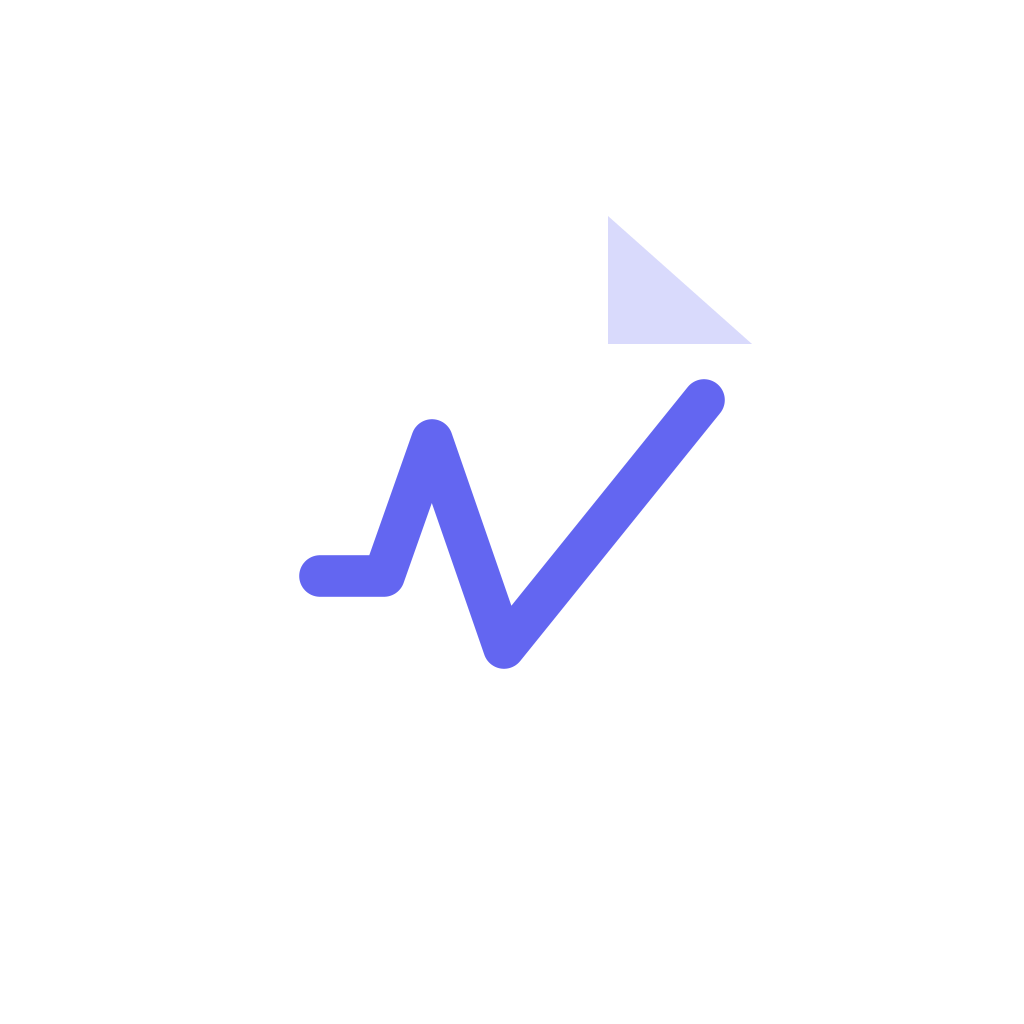
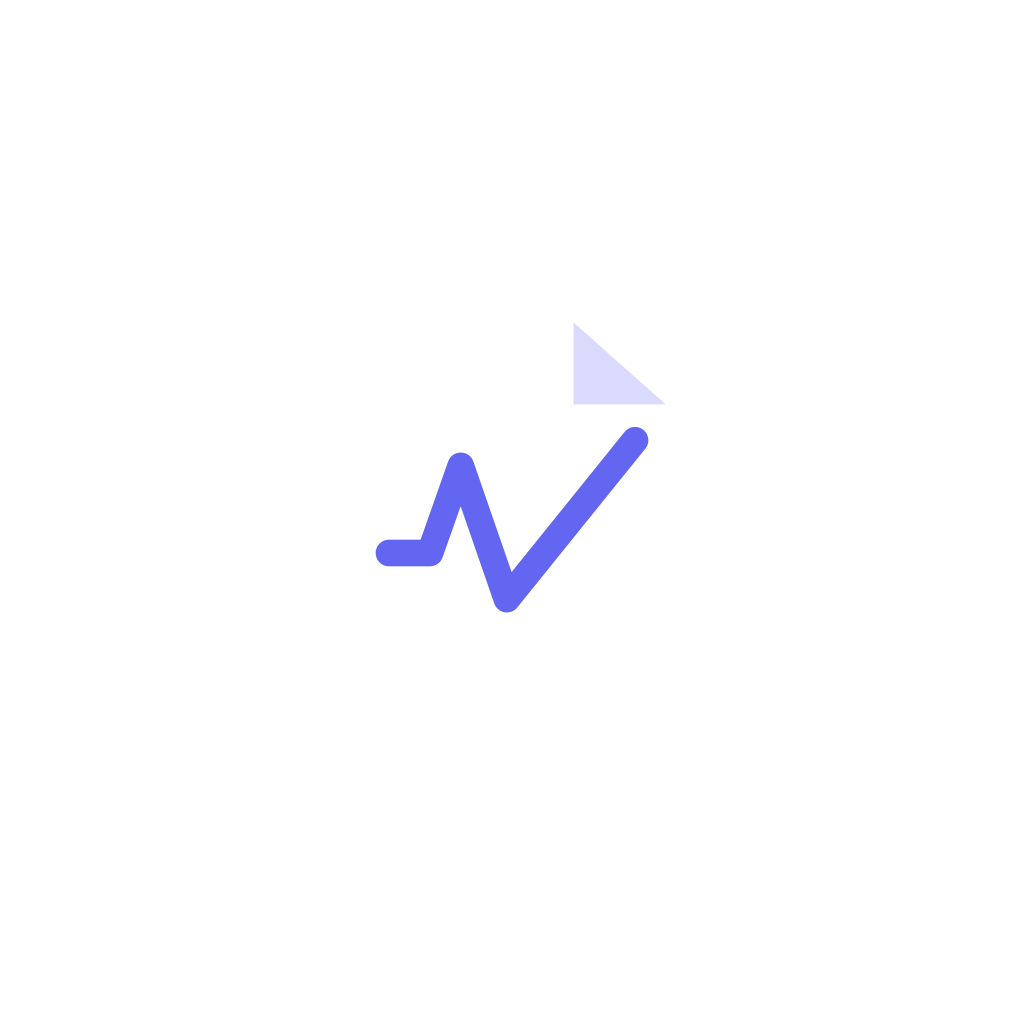
feat(branding): ícono de Android con tema y nombre "Logday"
- La capa monocroma era solo la silueta del documento: con íconos
  temáticos (Android 13+) se veía un documento en blanco. Ahora lleva la
  línea de tendencia y el doblez calados.
- El documento del ícono adaptativo ocupaba el 87 % del alto visible y
  las máscaras redondas lo cortaban. Ahora mide 40 de 108 unidades,
  dentro del círculo seguro.
- Las capas salen de los trazos de LogoMark; los SVG fuente quedan en
  assets/icon-src/.
- El nombre bajo el ícono pasa a "Logday" (decisión de Jorge): "Logday
  Mobile" se cortaba en el lanzador.

Changed region(s): [[0.2812, 0.2188, 0.75, 0.6562]]

diff --git a/specs/builds-nativos/requirements.md b/specs/builds-nativos/requirements.md
@@ -24,11 +24,14 @@ Hasta la 1.0, Logday Mobile solo se probó en Expo Go. Para publicar en las tien
   - Android: Play App Signing, con la llave de subida gestionada por EAS.
   - iOS: certificados gestionados por EAS.
 
+- El nombre bajo el ícono DEBERÁ ser "Logday" (decidido por Jorge el 12 nov 2026; "Logday Mobile" se cortaba en el lanzador). El nombre de la ficha de la tienda es aparte.
+- En Android 13 o superior, con los íconos temáticos activados, el ícono DEBERÁ tomar los colores del tema del sistema como el resto de apps, y seguir mostrando el documento con su doblez y la línea de tendencia.
+- El ícono de Android DEBERÁ caber en la zona segura del ícono adaptativo, para que ninguna máscara del lanzador (círculo, squircle, cuadrado) le corte el documento.
+
 ## PENDIENTE DE DECISIÓN
 
 - **HTTP sin cifrar.** En un build real, Android 9 o superior bloquea por omisión las conexiones `http://`, e iOS también, por App Transport Security. En Expo Go sí funcionan. Un servidor de sync en la red local con `http://192.168.x.x:8080` dejaría de conectar. Hay tres opciones:
   - Solo HTTPS, que es lo más seguro y lo que piden las tiendas.
   - Permitir HTTP en general (`usesCleartextTraffic` en Android y `NSAllowsArbitraryLoads` en iOS), que obliga a justificarlo ante Apple.
   - En iOS, permitir solo la red local (`NSAllowsLocalNetworking`). Android no tiene un equivalente para IPs arbitrarias.
-- **Nombre bajo el ícono.** Hoy es "Logday Mobile" (`name` de `app.json`). En el teléfono quizá baste "Logday". El nombre de la ficha de la tienda es aparte.
 - **Workflow de release por tag** que adjunte el APK al Release de GitHub, como el de Desktop. Va después del primer build.

diff --git a/specs/builds-nativos/design.md b/specs/builds-nativos/design.md
@@ -51,3 +51,13 @@ Android busca un recurso (drawable o mipmap) con el nombre del `icon` de cada at
 - **Prueba.** Una prueba revisa que cada nombre de Android exista en `androidIcons`.
 
 Usar el plugin destapó un problema del árbol de npm. Con `legacy-peer-deps`, `ajv-keywords@5`, que pide `ajv ^8` como peer, quedaba junto al `ajv` 6 de ESLint, y el prebuild fallaba también en EAS. Por eso `ajv ^8` está en `devDependencies`; la razón está en `.npmrc`.
+
+## Ícono de Android y su versión con tema (12 nov 2026)
+
+Antes, el documento ocupaba el 87 % del alto visible: las máscaras redondas le cortaban los bordes. Además, la capa monocroma era solo la silueta rellena, así que con íconos temáticos se veía un documento en blanco.
+
+Ahora las tres capas salen de los trazos de `LogoMark` (`src/components/LogoMark.tsx`). Los SVG fuente están en `assets/icon-src/` y se pasaron a PNG de 1024 px:
+- **Lienzo.** El adaptativo mide 108 unidades. El documento mide 40 de alto, centrado, dentro del círculo seguro de 66.
+- **Frente** (`android-icon-foreground.png`): el documento blanco, el doblez con el acento al 24 % y la línea de tendencia en el acento.
+- **Fondo** (`android-icon-background.png`): el acento `#6366f1` liso.
+- **Monocroma** (`android-icon-monochrome.png`): el documento relleno, con la línea de tendencia (trazo de 3) y el doblez calados. El sistema la pinta con los colores del tema.

diff --git a/specs/builds-nativos/tasks.md b/specs/builds-nativos/tasks.md
@@ -15,5 +15,8 @@
   - [x] los íconos de los accesos rápidos en Android: salían como círculos vacíos, porque `task`, `compose` y `date` son símbolos de iOS. Arreglado con `androidIcons` del plugin y `quickActionIcon` (los glifos de Lucide del Inicio en `assets/quick-actions/`). En el segundo build se ven los tres y "Nueva tarea" abre el formulario;
   - [ ] tocar una notificación;
   - [ ] "reducir movimiento".
-- [ ] Decidir HTTP sin cifrar y el nombre bajo el ícono (ver requirements). En el cajón de apps del Pixel, "Logday Mobile" se corta como "Logday Mob…".
+- [x] Nombre bajo el ícono: "Logday" (Jorge, 12 nov 2026). "Logday Mobile" se cortaba como "Logday Mob…".
+- [x] Ícono de Android dentro de la zona segura y capa monocroma con la línea de tendencia, para los íconos temáticos.
+- [ ] Ver el ícono temático en un build.
+- [ ] Decidir HTTP sin cifrar (ver requirements).
 - [ ] Build `production` (AAB) y subida a la prueba interna de Play (con OK de Jorge).
